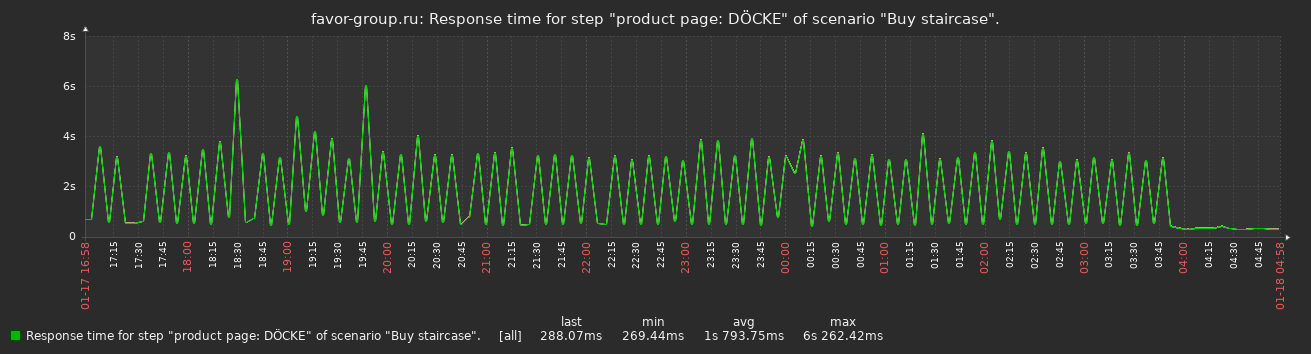
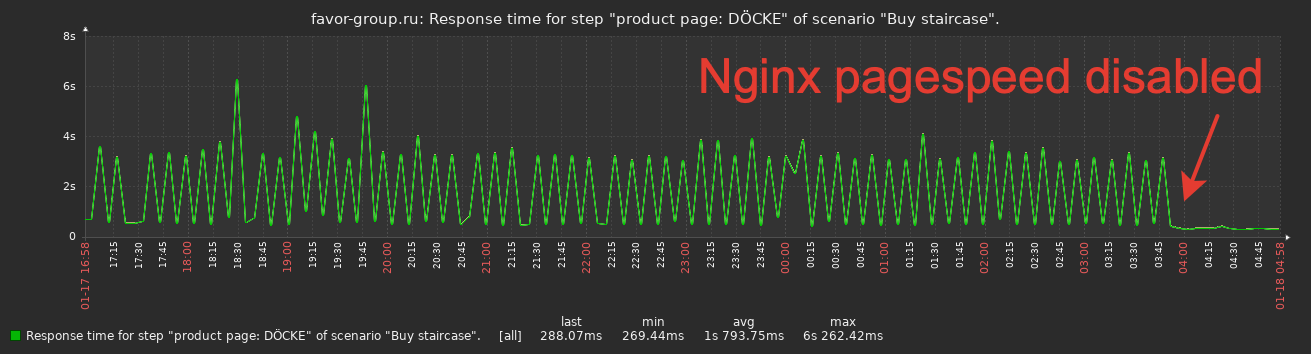
final draft of year-of-work-on-bitrix
Former-commit-id: dbc898f901cba4abc97b1e5039b94950471f2c5a

Changed region(s): [[0.5187, 0.1554, 0.9764, 0.3107], [0.9153, 0.3418, 0.9458, 0.435], [0.8848, 0.4661, 0.9153, 0.5593]]

diff --git a/content/post/2021/year-of-sre-work-on-bitrix/index.md b/content/post/2021/year-of-sre-work-on-bitrix/index.md
@@ -20,7 +20,9 @@ I picked up responsibility for my father's website commercial and technical succ
 
 ## Site speed
 
-I assumed that replacing Apache with Nginx + php-fpm, enabling [Nginx PageSpeed mod](https://github.com/apache/incubator-pagespeed-ng) and upgrading PHP version alongside checking the code for possible JS optimisations should speed the site up. The page readiness time graph below shows that part of the assumptions had the effect opposite to the desired one.
+The website has a lot of decent content with SEO-friendly metadata, however, it did not have as good search engines positions as it deserved. One of the solid factors for search positions, especially for mobile users, is [site loading speed](https://developers.google.com/web/updates/2018/07/search-ads-speed), which I thought was the biggest problem I could fix to give the site an edge versus competitors.
+
+I assumed that replacing Apache with Nginx + php-fpm, enabling [Nginx PageSpeed mod](https://github.com/apache/incubator-pagespeed-ng) and upgrading PHP version alongside checking the code for possible JS optimisations should speed the site up. The page readiness time graph below shows that part of the assumptions had the effect precisely opposite to the desired one.
 
 ![DOM load time from July 2020 to July 2021, 50th percentile](DOM_load_time_July_2020_to_2021_50th_percentile.png)
 
@@ -30,43 +32,47 @@ Percentiles: [50th](DOM_load_time_July_2020_to_2021_50th_percentile.png) | [75th
 
 Nginx enablement end of **September** 2020 showed no significant speed change over Apache in the [Chrome Lighthouse](https://developers.google.com/web/tools/lighthouse) and page generation speed as low as 0.5s with spikes up to 4s on the Zabbix page response time graph (following picture). I was unhappy but thought I'll figure the spikes root cause eventually.
 
-The effect on the customers was disastrous: the 50th percentile of load time increased three times from the initial 6 seconds; however, I was not looking at that (client data) graph at the time and was relying only on synthetic checks by Zabbix.
+The effect on the customers was disastrous: the 50th percentile of load time increased three times from the initial 6 seconds; however, I was not looking at that (client data) graph at the time.
 
 In **October**, I applied optimisations recommended by [EverSQL](https://www.eversql.com). It allowed me to cut half the time PHP spent waiting for MySQL responses without learning the magic craft of database performance troubleshooting and index building. I assume that these optimisations are the primary contributor to sub-0.5s page generation time after the rest of the problems were fixed.
 
-After discovering the DOM loading time graph above in early **January** 2021, I started looking for the reason for the degradation. After multiple attempts in the wrong places, I finally found that the pagespeed Nginx module was the root cause of the problem: removing it reduced the 50th percentile rendering time from 20-25 seconds to just 5-7. Here is the page generation time graph with pagespeed disabled at the 4 AM mark:
+Before early **January** 2021, I was looking at the graph below, which count time *retrieving* but not *rendering* the page. Rendering takes most of the time for real users, so I was missing a critically important part of the picture.
 
 ![pagespeed hurts performance, page generation time metric](after_pagespeed.png)
 
-The new virtual machine provider gave a nice benchmark boost and a slight page generation time decrease in **February** but didn't affect the customers much as they spent most of the time rendering the page, not waiting for it to load from the server.
+After discovering the user DOM loading time graph, I started looking for the reason for the degradation. After multiple attempts in the wrong places, I finally found that the pagespeed Nginx module was the root cause of the problem: removing it reduced the 50th percentile rendering time from 20-25 seconds to just 5-7, and reduced page retrieve time from \~4s to less than 0.5s.
+
+The new virtual machine provider gave a nice benchmark boost and a slight page generation time decrease in **February** but didn't affect the customers much as that time was already under one second of five seconds total render time.
 
 In **March**, I found the dirt-cheap improvement to the render time I was looking for. It turned out to be [delaying](https://constantsolutions.dk/2020/06/delay-loading-of-google-analytics-google-tag-manager-script-for-better-pagespeed-score-and-initial-load/) the load of Google Analytics and other JS scripts, which gave the final decrease of end-user DOM load time from 5.2s to 3.0s. That way, non-essential JS work is not affecting the initial page render time.
 
-**June**, the site got bot traffic appearing as slow real clients in the monitoring, and I onboarded Cloudflare only to discover that:
+**June**, malicious robots started visiting the site and behaving as slow real clients so that they could then raise someone's rating in the search engines by acting as engaged humans on their sites. I onboarded Cloudflare anti-DDoS and anti-bot protection only to discover that:
 
 1. Cloudflare cuts bots as well as provide better loading speed to the customers due to various optimisations for images and static resources they provide;
 
 2. All Cloudflare public IPs are banned by Russian authorities since \~2016, and search engines prosecute you severely the moment you start using them.
 
-You [*could*](https://community.cloudflare.com/t/reverse-proxy-infront-of-cloudflare/33972/8?u=favor.group2015) use Cloudflare behind your own IP to get around the ban, but that's terra incognita for me, and I have yet to see if it will help against bots.
+You [could](https://community.cloudflare.com/t/reverse-proxy-infront-of-cloudflare/33972/8?u=favor.group2015) hide Cloudflare behind your own IP instead of using their external IPs to get around the ban, but I don't know of anyone who did that and it's unknown if it will cut bots in such a bizarre reverse setup.
 
 Supposedly you want to avoid repeating my errors. In that case, **don't change the system without looking at the relevant data and graphs** you identified as a target of a change in advance, and, the first rule of any refactoring, **avoid introducing multiple changes at once** as they make results interpolation close to impossible.
 
 ## Infrastructure
 
-When I started caring for the project, it was provider-configured Apache with MariaDB without code versioning, but with almost working backup. It was a system that worked without anyone knowing for sure how.
+When I started caring for the project, it was provider-configured Apache with MariaDB without code versioning but with almost working backup. It was a system that worked without anyone knowing for sure how.
+
+I've started refactoring the infrastructure at the time of writing the [first post](/2020/small-forms/), which ultimately ended in the architecture drawn below. All code for it is available for free at [paskal/bitrix.infra](https://github.com/paskal/bitrix.infra) GitHub under MIT license.
 
 ![small Bitrix project architecture](favor-group-architecture.png)
 
-I've started refactoring the infrastructure at the time of writing the [first post](/2020/small-forms/), which ultimately ended in the architecture drawn above. All code for it is available for free at [paskal/bitrix.infra](https://github.com/paskal/bitrix.infra) GitHub under MIT license.
-
-I won't go into a detailed description here as it won't be interesting to most readers; it is a docker-compose file with an extensive Readme describing how to set it up, which a few people found helpful already.
+I won't go into a detailed description here as it wouldn't be interesting to most readers; it is a docker-compose file with an extensive Readme describing how to set it up, which a few people found helpful already.
 
 ## Results
 
-The site got roughly twice as many visits as the year before, which is reasonably good but way under my predictions. Repeating history, it turned out that technical excellence has a weak correlation with success.
+The site got \~2.2 times as many visits as the year before.
 
-The site works without maintenance after initial investment into infrastructure refactoring, which has not changed the state before. But the rendering speed became better, with only the 90th percentile still slow because of users with cheap mobile devices who have the 5x page rendering time of the desktop users; [Google AMP](https://developers.google.com/amp) could help with that.
+![sessions.png](/Users/dmitry/Documents/blog/content/post/2021/year-of-sre-work-on-bitrix/sessions.png)
+
+The rendering speed became better, with only the 90th percentile still slow because of users with cheap mobile devices which have the 5x page rendering time of the desktop users; [Google AMP](https://developers.google.com/amp) and similar [Yandex technology](https://yandex.com/dev/turbo/) could help with that.
 
 Eliminating the technical obstacles made the site more transparent (available, resilient) for the users and search engines, which unlocked full-on work on the content. Since day one, I had to think not only about maintainability and speed but also about improving the site for the customers and the search engines. Now, after the proper technical rework is done, everything left is that endless search for ways of satisfying the customer better than competitors, which competent contractors will do better than me.
 
